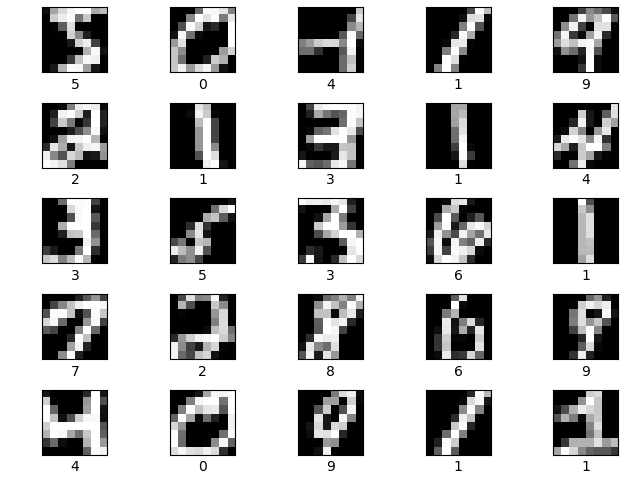
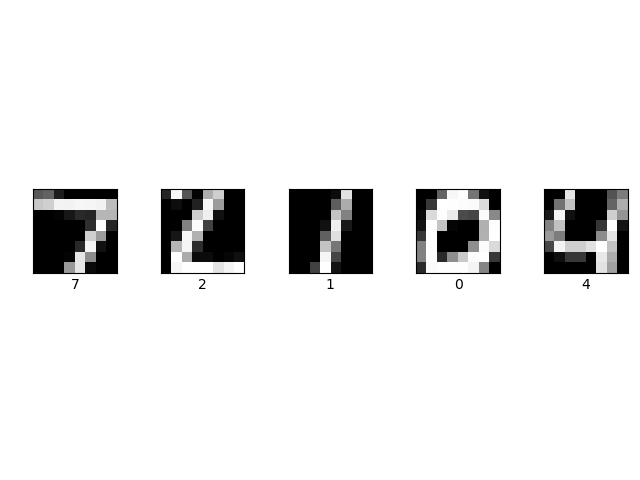
improvements + updated readme w/ results + got rid of some module tests + glimpse sensor test now using data_loader.py + added images

diff --git a/test_glimpse_sensor.py b/test_glimpse_sensor.py
@@ -1,21 +1,20 @@
 import torch
-import torchvision.transforms as transforms
-import torchvision.datasets as datasets
 import numpy as np
 import matplotlib.pyplot as plt
 import os
 
+import data_loader
 from modules.glimpse_sensor import GlimpseSensor
 
 def save_images(images, labels, name):
 
-    assert len(images) == len(labels) == 25
+    assert len(images) == len(labels) == 5
 
     # get rid of channel dimension of 1, if exists
     images = images.squeeze()
 
     # Create figure with sub-plots.
-    fig, axes = plt.subplots(5, 5)
+    fig, axes = plt.subplots(1, 5)
     fig.tight_layout(pad=0.1)
 
     for i, ax in enumerate(axes.flat):
@@ -27,40 +26,16 @@ def save_images(images, labels, name):
         ax.set_xticks([])
         ax.set_yticks([])
 
-    #save image
+    # save image
     fig.savefig(name)
 
-root = 'data'
-
-# get data
-data = datasets.MNIST(root=root, 
-                      train=True, 
-                      download=True)
-
-# calculate mean and std
-mean = data.data.float().mean() / 255
-std = data.data.float().std() / 255
-
-# define transforms
-transforms = transforms.Compose([
-                           transforms.ToTensor(),
-                           transforms.Normalize(mean=[mean], 
-                                                std=[std])
-                       ])
-
-# get data w/ transforms
-data = datasets.MNIST(root=root, 
-                      train=True, 
-                      download=True,
-                      transform=transforms)
-
-# get data loader
-batch_size = 25
-data_loader = torch.utils.data.DataLoader(data, batch_size=batch_size)
+data = 'MNIST'
+batch_size = 5
+train_data, test_data = data_loader.get_data(data, batch_size)
 
 # get batch 
-data_iter = iter(data_loader)
-images, labels = data_iter.next()
+test_iter = iter(test_data)
+images, labels = test_iter.next()
 
 # plot raw images
 os.makedirs('images', exist_ok=True)

diff --git a/train.py b/train.py
@@ -36,7 +36,7 @@ parser.add_argument('--scale', type=int, default=2)
 parser.add_argument('--glimpse_hid_dim', type=int, default=128)
 parser.add_argument('--location_hid_dim', type=int, default=128)
 parser.add_argument('--recurrent_hid_dim', type=int, default=256)
-parser.add_argument('--std', type=float, default=0.17)
+parser.add_argument('--std', type=float, default=0.15)
 
 # other hyperparameters
 parser.add_argument('--lr', type=float, default=3e-4)

diff --git a/README.md b/README.md
@@ -1,5 +1,35 @@
 # Recurrent Attention Model
 
+<p align="center">
+ <img src="./images/raw.png">
+ <img src="./images/patch_1_scale_1.png">
+ <img src="./images/patch_2_scale_2.png">
+ <img src="./images/patch_3_scale_4.png">
+</p>
+
+<p align="center">
+ <img src="./images/MNIST-ng6-ps8-np1-sc2-sd0.15-se1.gif">
+</p>
+
+<p align="center">
+ <img src="./images/MNIST-ts60-ng8-ps12-np3-sc2-sd0.25-se1.gif">
+</p>
+
+<p align="center">
+ <img src="./images/MNIST-ts60-nc4-cs8-ng8-ps12-np3-sc2-sd0.3-se1.gif">
+</p>
+
+
+## Results
+
+| Experiment | Paper | This Repo. |
+|------------|-------|------------|
+| 28x28 MNIST w/ 6 Glimpses, 8x8, 1 scale | 1.29% | 1.08% w/ std = 0.15 |
+| 60x60 Translated MNIST w/ 8 Glimpses, 12x12, 3 scales | 1.84% | 1.87% w/ std = 0.25|
+| 60x60 Translated MNIST w/ 8 Glimpses, 12x12, 3 scales | 5.23% | 2.13% w/ std = 0.25 |
+
+## References
+
 https://github.com/kevinzakka/recurrent-visual-attention
 https://github.com/ipod825/recurrent-visual-attention/
 http://torch.ch/blog/2015/09/21/rmva.html
